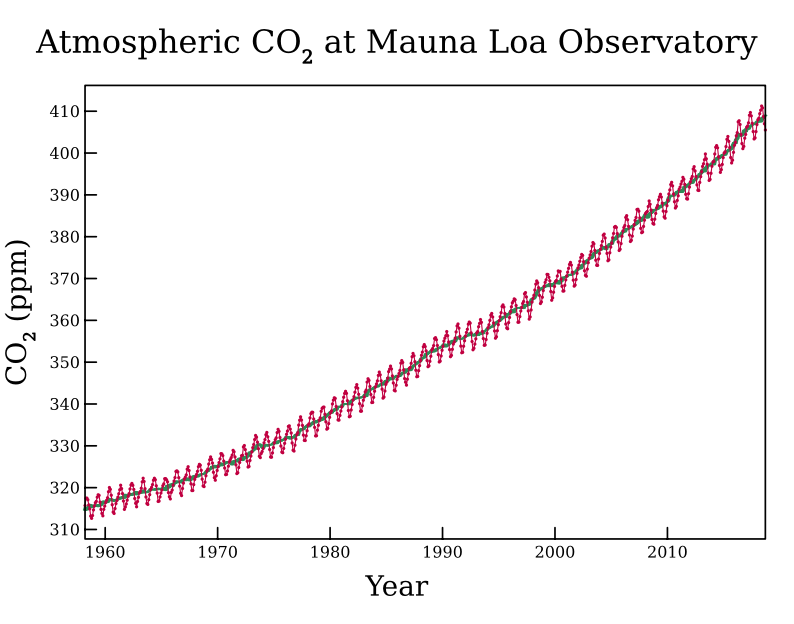
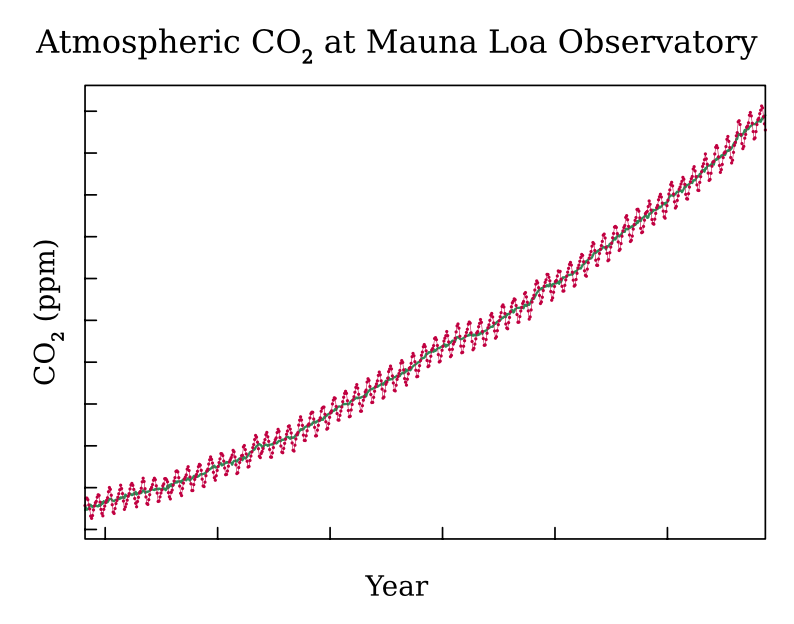
Fix graph example stretching

diff --git a/example/graph_example.go b/example/graph_example.go
@@ -84,7 +84,8 @@ func Draw(c *canvas.Canvas) {
 	yscale := 80.0 / (ymax - ymin)
 
 	c.PushState()
-	c.SetView(canvas.Identity.Translate(15.0, 15.0).Scale(xscale, yscale).Translate(-xmin, -ymin))
+	c.SetView(canvas.Identity.Translate(15.0, 15.0))
+	viewport := canvas.Identity.Scale(xscale, yscale).Translate(-xmin, -ymin)
 
 	// Draw the function
 	co2Line := &canvas.Polyline{}
@@ -95,12 +96,12 @@ func Draw(c *canvas.Canvas) {
 	}
 
 	c.SetFillColor(canvas.Seagreen)
-	c.DrawPath(0, 0, trendLine.ToPath().Stroke(0.4, canvas.RoundCapper, canvas.RoundJoiner))
+	c.DrawPath(0, 0, trendLine.ToPath().Transform(viewport).Stroke(0.4, canvas.RoundCapper, canvas.RoundJoiner))
 
 	c.SetFillColor(color.RGBA{192, 0, 64, 255})
-	c.DrawPath(0, 0, co2Line.ToPath().Stroke(0.1, canvas.RoundCapper, canvas.RoundJoiner))
-	marker := canvas.Ellipse(0.3/xscale, 0.3/yscale)
-	for _, m := range co2Line.ToPath().Markers(marker, marker, marker, false) {
+	c.DrawPath(0, 0, co2Line.ToPath().Transform(viewport).Stroke(0.1, canvas.RoundCapper, canvas.RoundJoiner))
+	marker := canvas.Ellipse(0.3, 0.3)
+	for _, m := range co2Line.ToPath().Transform(viewport).Markers(marker, marker, marker, false) {
 		c.DrawPath(0, 0, m)
 	}
 
@@ -120,9 +121,7 @@ func Draw(c *canvas.Canvas) {
 		frame.MoveTo(xmin, y).LineTo(xmin+2.0/xscale, y)
 		c.DrawText(xmin, y-(tickFace.Metrics().CapHeight/2.0)/yscale, canvas.NewTextLine(tickFace, fmt.Sprintf("%g ", y), canvas.Right))
 	}
-	c.DrawPath(0.0, 0.0, frame)
-
-	c.PopState()
+	c.DrawPath(0.0, 0.0, frame.Transform(viewport))
 
 	// Draw the labels
 	c.SetFillColor(canvas.Black)
@@ -133,11 +132,12 @@ func Draw(c *canvas.Canvas) {
 	rt.Add(labelFace, "CO")
 	rt.Add(labelSubFace, "2")
 	rt.Add(labelFace, " (ppm)")
-	c.SetView(canvas.Identity.Rotate(90))
+	c.PushState()
+	c.ComposeView(canvas.Identity.Rotate(90))
 	text := rt.ToText(0.0, 0.0, canvas.Center, canvas.Top, 0.0, 0.0)
-	c.DrawText(55.0, 0.0, text)
-	c.ResetView()
-	c.DrawText(70.0, 5.0, canvas.NewTextLine(labelFace, "Year", canvas.Center))
+	c.DrawText(40.0, 10.0, text)
+	c.PopState()
+	c.DrawText(55.0, -10.0, canvas.NewTextLine(labelFace, "Year", canvas.Center))
 
 	titleFace := dejaVuSerif.Face(16.0, color.Black, canvas.FontRegular, canvas.FontNormal)
 	titleSubFace := dejaVuSerif.Face(16.0, color.Black, canvas.FontRegular, canvas.FontSubscript)
@@ -145,5 +145,5 @@ func Draw(c *canvas.Canvas) {
 	rt.Add(titleFace, "Atmospheric CO")
 	rt.Add(titleSubFace, "2")
 	rt.Add(titleFace, " at Mauna Loa Observatory")
-	c.DrawText(70.0, 106.0, rt.ToText(0.0, 0.0, canvas.Center, canvas.Top, 0.0, 0.0))
+	c.DrawText(55.0, 91.0, rt.ToText(0.0, 0.0, canvas.Center, canvas.Top, 0.0, 0.0))
 }

diff --git a/README.md b/README.md
@@ -64,6 +64,7 @@ Features that are planned to be implemented in the future. Also see the TODOs in
 General
 
 * Fix slowness in the rasterizer (text_example.go is slow! use rasterized cache for each glyph/path)
+* Rethink viewport functionality
 
 Fonts
 
